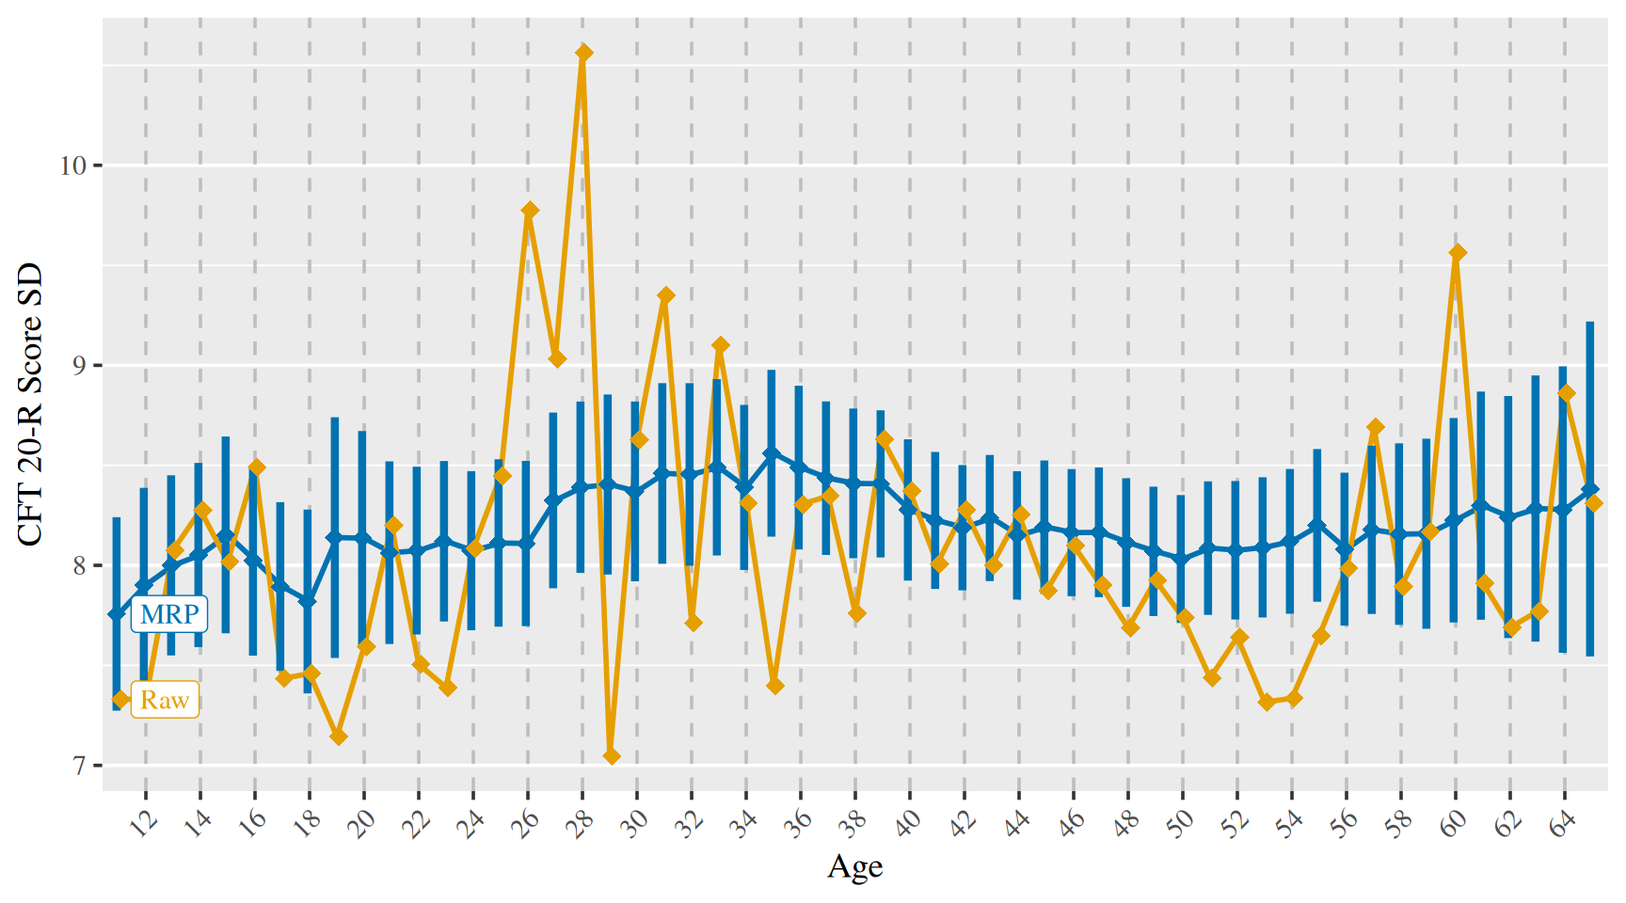
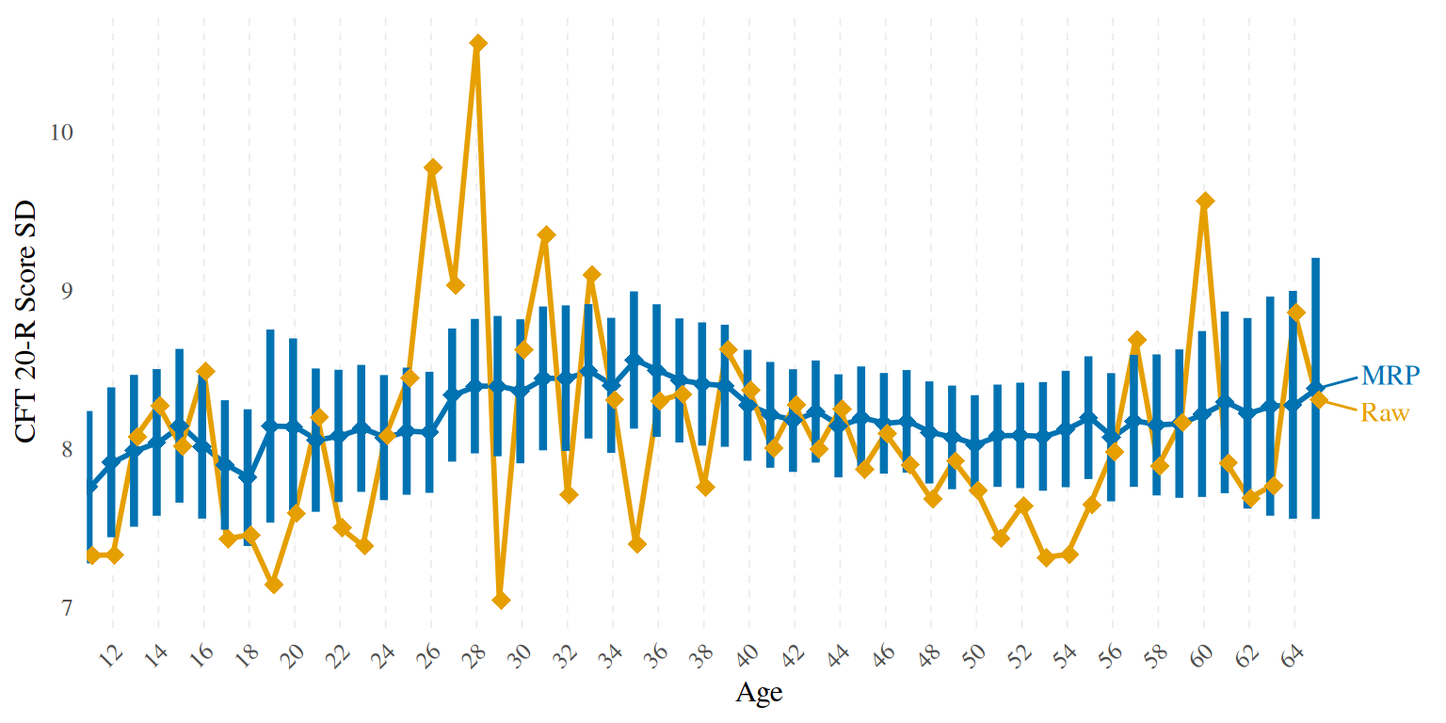
Fix error in document 03 and prevent site from uploading redundant data files

Changed region(s): [[0.0, 0.0312, 1.0, 0.8438], [0.0625, 0.875, 0.9688, 1.0], [0.0312, 0.1562, 0.0625, 0.1875]]

diff --git a/docs/03_norm_comparisons.html b/docs/03_norm_comparisons.html
@@ -10,7 +10,7 @@
 
 
 
-<meta name="date" content="2023-12-02" />
+<meta name="date" content="2023-12-03" />
 
 <title>MRP vs. Traditional Norming</title>
 
@@ -364,7 +364,7 @@ div.tocify {
 
 
 <h1 class="title toc-ignore">MRP vs. Traditional Norming</h1>
-<h4 class="date">2023-12-02</h4>
+<h4 class="date">2023-12-03</h4>
 
 </div>
 
@@ -379,6 +379,7 @@ div.tocify {
 )</code></pre>
 <p>Load dependencies and preprocessed datasets</p>
 <pre class="r"><code>library(tidyverse)
+library(ggrepel)
 
 load(&quot;../unshareable_data/preprocessed/tl.Rda&quot;)
 load(&quot;../unshareable_data/preprocessed/manual_norms.Rda&quot;)
@@ -432,8 +433,8 @@ means_ns_sds_and_ses %&gt;%
   mutate(age = as.integer(age)) %&gt;% 
   DT::datatable() %&gt;% 
   DT::formatRound(columns = names(means_ns_sds_and_ses)[-c(1, 2, 7)], digits = 2)</code></pre>
-<div class="datatables html-widget html-fill-item" id="htmlwidget-f143d6070531542c68ae" style="width:100%;height:auto;"></div>
-<script type="application/json" data-for="htmlwidget-f143d6070531542c68ae">{"x":{"filter":"none","vertical":false,"data":[["1","2","3","4","5","6","7","8","9","10","11","12","13","14","15","16","17","18","19","20","21","22","23","24","25","26","27","28","29","30","31","32","33","34","35","36","37","38","39","40","41","42","43","44","45","46","47","48","49","50","51","52","53","54","55"],[11,12,13,14,15,16,17,18,19,20,21,22,23,24,25,26,27,28,29,30,31,32,33,34,35,36,37,38,39,40,41,42,43,44,45,46,47,48,49,50,51,52,53,54,55,56,57,58,59,60,61,62,63,64,65],[31.41933539823009,32.24655989110708,33.32109638554217,34.64127640984908,35.59377472984206,36.79180338983051,38.19543727915195,39.0617756686799,38.19902534750613,38.76007715133531,38.85173550724637,38.41969236311239,38.29467464114833,38.02224584487534,37.96273068267067,37.85329496402878,37.58740270848183,37.50988504983389,37.42797503467406,37.38282018479033,37.06883439490446,37.4475076923077,37.09191606886657,37.10331096681097,36.82089683734939,36.91415201900237,36.77070449521002,36.78502578397212,36.53369576379974,37.00188549618321,36.90055977337111,36.9484368174727,36.66468642350557,36.75412098009188,36.73961900049481,36.4389477250726,36.24376216216216,36.13772303060713,35.78314526524542,35.60530874178878,35.2652813174946,35.03552200220022,34.77995720069404,34.31684800469483,33.81975841346154,33.6946588607595,33.04420036101083,32.63930588235294,32.07054700315457,31.94286714659686,31.18580494505494,30.65671521268926,30.31236647955092,29.83173781902552,29.20127586206896],[0.339153310398251,0.3061618209629887,0.3078633350303817,0.3055669830902937,0.3390421565080756,0.3336283856256183,0.3188367944828533,0.3461546468904904,0.8716304300784258,0.5053126848335462,0.3755026188449256,0.3261790654988607,0.2937888023868133,0.2890040636301034,0.2907980404659297,0.2883729173988953,0.2910732146862993,0.3038334098260252,0.2963906547973039,0.3191096276496148,0.3098561531308892,0.2910106914799648,0.2930504645935921,0.2902209377679933,0.2792596597520211,0.2795645142780048,0.2650824227454863,0.2653041013623231,0.2532970721501843,0.239888792119017,0.2336425648829067,0.2279591310975317,0.2274706029223723,0.2304307459583018,0.225476310543732,0.2339454840427181,0.2208976265628471,0.2292422364233698,0.2285928475705538,0.2343638111323304,0.2333928345489918,0.2366422946103777,0.2465770823264749,0.2558637148121597,0.2726879688452084,0.2947641208833013,0.3165220665577687,0.3372502036060847,0.372030032027556,0.400384813119586,0.4565720168456703,0.5007927578750195,0.5715728002961893,0.6206786116371956,0.7203504077886825],[7.760001524094577,7.916828425200666,7.989205055936736,8.04218126579881,8.147276481834234,8.015319933859599,7.900017621702085,7.820289527133149,8.14531118628798,8.141382815843043,8.056733065709043,8.083387008069884,8.130854331271964,8.072673088214097,8.112996378550308,8.106072552128737,8.341149126534466,8.39737690920537,8.397536905619914,8.36492768994399,8.446252932916801,8.44754308276789,8.490731261842866,8.401980189115898,8.562013409760381,8.495367672624461,8.433476562947428,8.410835963703452,8.399688293006081,8.276585517081333,8.21633432284921,8.180149755170644,8.236888877696916,8.146889501025042,8.196045161040368,8.16284564142487,8.175272818969807,8.105046524687365,8.073812824130593,8.029074265644388,8.08430766672312,8.08672208500006,8.080120757486362,8.126574900121183,8.198284084571911,8.075085339035009,8.178450819280553,8.152609390232584,8.160921911251497,8.22134338325721,8.294995488478817,8.225899652464246,8.271131788279105,8.279453085479393,8.383153141472853],[0.2451393232652967,0.2412730582442069,0.2444349347453397,0.2360766215918501,0.2475154855644798,0.2314564843008468,0.2083445662923197,0.2199864449017918,0.3105971386330947,0.2841803443018496,0.230704849386771,0.2128759301726082,0.2043701004319006,0.2012854574764043,0.2045053776706182,0.194838418752444,0.2141909035722671,0.2164304825388623,0.2258041044684931,0.2318557909728574,0.2314505779776289,0.2342532045083403,0.2162915322156641,0.2174313874666326,0.2208266077284186,0.2135229952783785,0.1996857412573016,0.1982461411119428,0.1964356681862101,0.1783895143888073,0.170276411618984,0.1653217058503083,0.1643245285492285,0.1657803354460953,0.1659617577257523,0.1620552305832745,0.165209278923767,0.1643918034946706,0.166795345742865,0.1586471752652176,0.1645677783468691,0.1697065432772101,0.1747755755971221,0.1872430154774536,0.1976067513433616,0.2063389674793608,0.2124618147609756,0.2270246227179788,0.2388714449599543,0.266954282498022,0.2924670132118746,0.3066568514171068,0.3526067961059787,0.3666669113350436,0.4202999666707815],[908,110,141,130,89,122,965,120,86,72,61,285,458,257,70,48,34,26,29,25,59,73,93,128,143,157,169,190,195,203,228,224,237,300,337,298,300,309,315,322,292,263,238,207,169,118,113,79,66,53,32,34,18,17,13],[32.25770925110132,34.32727272727273,36.30496453900709,37.14615384615384,36.70786516853933,37.31967213114754,40.07668393782384,40.46666666666667,41.55813953488372,41.22222222222222,39,40.12631578947369,40.08951965065502,39.94552529182879,39.22857142857143,38.375,36.58823529411764,34.84615384615385,37.3448275862069,32.24,36.16949152542373,37.43835616438356,38.04301075268818,36.75,38.56643356643357,37.10828025477707,37.16568047337278,37.46315789473685,37.91282051282051,38.08866995073892,38.19298245614035,38.23660714285715,37.45147679324894,37.81333333333333,38.40356083086053,38.07382550335571,38.22333333333334,37.78640776699029,37.84761904761905,37.24223602484472,36.53082191780822,37.30798479087453,36.52941176470588,37.15458937198068,35.52662721893491,35.41525423728814,35.17699115044248,35.58227848101266,34.25757575757576,33.9622641509434,34.71875,31.67647058823529,29.38888888888889,30.58823529411765,31.07692307692308],[7.32981827752394,7.332357707993041,8.076370527135978,8.275406300207393,8.017314001571581,8.490409167142531,7.434801352423686,7.458493926568625,7.144894765063399,7.593960206104163,8.199593485858511,7.505268720165701,7.389644669836307,8.083847067726905,8.447916180022094,9.775403349135926,9.032324601149737,10.56292500282874,7.047166918439968,8.627861844049196,9.349815676539926,7.711798863087549,9.100781116134822,8.311835788394061,7.398667029316588,8.303983920179206,8.346428144916086,7.76072124275454,8.629701153788627,8.370860567352258,8.007570419129138,8.277816218767944,8.000183256143226,8.252606088162503,7.873084749526269,8.099211384257696,7.900729543103374,7.687040644626986,7.926149118860502,7.738946612626985,7.437418769140218,7.640803790482602,7.316040442328423,7.335593880067554,7.648579924806923,7.984307548487098,8.691364853050962,7.894508956549725,8.168062770158505,9.563476725685518,7.91174861386737,7.689901241574519,7.769767116571232,8.860437514094688,8.311252798280359],[0.2432485630292096,0.6991128765537922,0.6801530954672579,0.7258011458620808,0.8498335845011183,0.7686855281534873,0.2393347237656941,0.680864228099486,0.7704538167635159,0.8949567929661744,1.049850366647422,0.4445737503670572,0.3452954192001563,0.5042565256253859,1.009719110762133,1.410957938765199,1.549030889645055,2.071560027309265,1.308626044109843,1.725572368809839,1.217242320800168,0.9025977858815822,0.9437070401746656,0.7346694312603093,0.6187076187968894,0.6627300655525055,0.6420329342243143,0.5630218945342673,0.6179857354743291,0.5875192340968579,0.5303143060806719,0.5530848607376824,0.5196677457349802,0.4764644346516565,0.428874254337216,0.4691747182710613,0.4561488328505162,0.437300463502061,0.446587910094509,0.4312746335500847,0.4352420124591023,0.4711521456517989,0.4742284656375508,0.5098590198876498,0.5883523019082249,0.7350150870631209,0.8176148292000777,0.8882016510766225,1.005419024791589,1.313644556350325,1.398612773977221,1.318807182815652,1.831351672122589,2.148971750576327,2.3051267790418]],"container":"<table class=\"display\">\n  <thead>\n    <tr>\n      <th> <\/th>\n      <th>age<\/th>\n      <th>MRP_mean<\/th>\n      <th>MRP_se_of_mean<\/th>\n      <th>MRP_sd<\/th>\n      <th>MRP_se_of_sd<\/th>\n      <th>Raw_n<\/th>\n      <th>Raw_mean<\/th>\n      <th>Raw_sd<\/th>\n      <th>Raw_se_of_mean<\/th>\n    <\/tr>\n  <\/thead>\n<\/table>","options":{"columnDefs":[{"targets":3,"render":"function(data, type, row, meta) {\n    return type !== 'display' ? data : DTWidget.formatRound(data, 2, 3, \",\", \".\", null);\n  }"},{"targets":4,"render":"function(data, type, row, meta) {\n    return type !== 'display' ? data : DTWidget.formatRound(data, 2, 3, \",\", \".\", null);\n  }"},{"targets":5,"render":"function(data, type, row, meta) {\n    return type !== 'display' ? data : DTWidget.formatRound(data, 2, 3, \",\", \".\", null);\n  }"},{"targets":6,"render":"function(data, type, row, meta) {\n    return type !== 'display' ? data : DTWidget.formatRound(data, 2, 3, \",\", \".\", null);\n  }"},{"targets":8,"render":"function(data, type, row, meta) {\n    return type !== 'display' ? data : DTWidget.formatRound(data, 2, 3, \",\", \".\", null);\n  }"},{"targets":9,"render":"function(data, type, row, meta) {\n    return type !== 'display' ? data : DTWidget.formatRound(data, 2, 3, \",\", \".\", null);\n  }"},{"className":"dt-right","targets":[1,2,3,4,5,6,7,8,9]},{"orderable":false,"targets":0}],"order":[],"autoWidth":false,"orderClasses":false}},"evals":["options.columnDefs.0.render","options.columnDefs.1.render","options.columnDefs.2.render","options.columnDefs.3.render","options.columnDefs.4.render","options.columnDefs.5.render"],"jsHooks":[]}</script>
+<div class="datatables html-widget html-fill-item" id="htmlwidget-8c1bc302485bf53f68b2" style="width:100%;height:auto;"></div>
+<script type="application/json" data-for="htmlwidget-8c1bc302485bf53f68b2">{"x":{"filter":"none","vertical":false,"data":[["1","2","3","4","5","6","7","8","9","10","11","12","13","14","15","16","17","18","19","20","21","22","23","24","25","26","27","28","29","30","31","32","33","34","35","36","37","38","39","40","41","42","43","44","45","46","47","48","49","50","51","52","53","54","55"],[11,12,13,14,15,16,17,18,19,20,21,22,23,24,25,26,27,28,29,30,31,32,33,34,35,36,37,38,39,40,41,42,43,44,45,46,47,48,49,50,51,52,53,54,55,56,57,58,59,60,61,62,63,64,65],[31.41933539823009,32.24655989110708,33.32109638554217,34.64127640984908,35.59377472984206,36.79180338983051,38.19543727915195,39.0617756686799,38.19902534750613,38.76007715133531,38.85173550724637,38.41969236311239,38.29467464114833,38.02224584487534,37.96273068267067,37.85329496402878,37.58740270848183,37.50988504983389,37.42797503467406,37.38282018479033,37.06883439490446,37.4475076923077,37.09191606886657,37.10331096681097,36.82089683734939,36.91415201900237,36.77070449521002,36.78502578397212,36.53369576379974,37.00188549618321,36.90055977337111,36.9484368174727,36.66468642350557,36.75412098009188,36.73961900049481,36.4389477250726,36.24376216216216,36.13772303060713,35.78314526524542,35.60530874178878,35.2652813174946,35.03552200220022,34.77995720069404,34.31684800469483,33.81975841346154,33.6946588607595,33.04420036101083,32.63930588235294,32.07054700315457,31.94286714659686,31.18580494505494,30.65671521268926,30.31236647955092,29.83173781902552,29.20127586206896],[0.339153310398251,0.3061618209629887,0.3078633350303817,0.3055669830902937,0.3390421565080756,0.3336283856256183,0.3188367944828533,0.3461546468904904,0.8716304300784258,0.5053126848335462,0.3755026188449256,0.3261790654988607,0.2937888023868133,0.2890040636301034,0.2907980404659297,0.2883729173988953,0.2910732146862993,0.3038334098260252,0.2963906547973039,0.3191096276496148,0.3098561531308892,0.2910106914799648,0.2930504645935921,0.2902209377679933,0.2792596597520211,0.2795645142780048,0.2650824227454863,0.2653041013623231,0.2532970721501843,0.239888792119017,0.2336425648829067,0.2279591310975317,0.2274706029223723,0.2304307459583018,0.225476310543732,0.2339454840427181,0.2208976265628471,0.2292422364233698,0.2285928475705538,0.2343638111323304,0.2333928345489918,0.2366422946103777,0.2465770823264749,0.2558637148121597,0.2726879688452084,0.2947641208833013,0.3165220665577687,0.3372502036060847,0.372030032027556,0.400384813119586,0.4565720168456703,0.5007927578750195,0.5715728002961893,0.6206786116371956,0.7203504077886825],[7.760001524094577,7.916828425200666,7.989205055936736,8.04218126579881,8.147276481834234,8.015319933859599,7.900017621702085,7.820289527133149,8.14531118628798,8.141382815843043,8.056733065709043,8.083387008069884,8.130854331271964,8.072673088214097,8.112996378550308,8.106072552128737,8.341149126534466,8.39737690920537,8.397536905619914,8.36492768994399,8.446252932916801,8.44754308276789,8.490731261842866,8.401980189115898,8.562013409760381,8.495367672624461,8.433476562947428,8.410835963703452,8.399688293006081,8.276585517081333,8.21633432284921,8.180149755170644,8.236888877696916,8.146889501025042,8.196045161040368,8.16284564142487,8.175272818969807,8.105046524687365,8.073812824130593,8.029074265644388,8.08430766672312,8.08672208500006,8.080120757486362,8.126574900121183,8.198284084571911,8.075085339035009,8.178450819280553,8.152609390232584,8.160921911251497,8.22134338325721,8.294995488478817,8.225899652464246,8.271131788279105,8.279453085479393,8.383153141472853],[0.2451393232652967,0.2412730582442069,0.2444349347453397,0.2360766215918501,0.2475154855644798,0.2314564843008468,0.2083445662923197,0.2199864449017918,0.3105971386330947,0.2841803443018496,0.230704849386771,0.2128759301726082,0.2043701004319006,0.2012854574764043,0.2045053776706182,0.194838418752444,0.2141909035722671,0.2164304825388623,0.2258041044684931,0.2318557909728574,0.2314505779776289,0.2342532045083403,0.2162915322156641,0.2174313874666326,0.2208266077284186,0.2135229952783785,0.1996857412573016,0.1982461411119428,0.1964356681862101,0.1783895143888073,0.170276411618984,0.1653217058503083,0.1643245285492285,0.1657803354460953,0.1659617577257523,0.1620552305832745,0.165209278923767,0.1643918034946706,0.166795345742865,0.1586471752652176,0.1645677783468691,0.1697065432772101,0.1747755755971221,0.1872430154774536,0.1976067513433616,0.2063389674793608,0.2124618147609756,0.2270246227179788,0.2388714449599543,0.266954282498022,0.2924670132118746,0.3066568514171068,0.3526067961059787,0.3666669113350436,0.4202999666707815],[908,110,141,130,89,122,965,120,86,72,61,285,458,257,70,48,34,26,29,25,59,73,93,128,143,157,169,190,195,203,228,224,237,300,337,298,300,309,315,322,292,263,238,207,169,118,113,79,66,53,32,34,18,17,13],[32.25770925110132,34.32727272727273,36.30496453900709,37.14615384615384,36.70786516853933,37.31967213114754,40.07668393782384,40.46666666666667,41.55813953488372,41.22222222222222,39,40.12631578947369,40.08951965065502,39.94552529182879,39.22857142857143,38.375,36.58823529411764,34.84615384615385,37.3448275862069,32.24,36.16949152542373,37.43835616438356,38.04301075268818,36.75,38.56643356643357,37.10828025477707,37.16568047337278,37.46315789473685,37.91282051282051,38.08866995073892,38.19298245614035,38.23660714285715,37.45147679324894,37.81333333333333,38.40356083086053,38.07382550335571,38.22333333333334,37.78640776699029,37.84761904761905,37.24223602484472,36.53082191780822,37.30798479087453,36.52941176470588,37.15458937198068,35.52662721893491,35.41525423728814,35.17699115044248,35.58227848101266,34.25757575757576,33.9622641509434,34.71875,31.67647058823529,29.38888888888889,30.58823529411765,31.07692307692308],[7.32981827752394,7.332357707993041,8.076370527135978,8.275406300207393,8.017314001571581,8.490409167142531,7.434801352423686,7.458493926568625,7.144894765063399,7.593960206104163,8.199593485858511,7.505268720165701,7.389644669836307,8.083847067726905,8.447916180022094,9.775403349135926,9.032324601149737,10.56292500282874,7.047166918439968,8.627861844049196,9.349815676539926,7.711798863087549,9.100781116134822,8.311835788394061,7.398667029316588,8.303983920179206,8.346428144916086,7.76072124275454,8.629701153788627,8.370860567352258,8.007570419129138,8.277816218767944,8.000183256143226,8.252606088162503,7.873084749526269,8.099211384257696,7.900729543103374,7.687040644626986,7.926149118860502,7.738946612626985,7.437418769140218,7.640803790482602,7.316040442328423,7.335593880067554,7.648579924806923,7.984307548487098,8.691364853050962,7.894508956549725,8.168062770158505,9.563476725685518,7.91174861386737,7.689901241574519,7.769767116571232,8.860437514094688,8.311252798280359],[0.2432485630292096,0.6991128765537922,0.6801530954672579,0.7258011458620808,0.8498335845011183,0.7686855281534873,0.2393347237656941,0.680864228099486,0.7704538167635159,0.8949567929661744,1.049850366647422,0.4445737503670572,0.3452954192001563,0.5042565256253859,1.009719110762133,1.410957938765199,1.549030889645055,2.071560027309265,1.308626044109843,1.725572368809839,1.217242320800168,0.9025977858815822,0.9437070401746656,0.7346694312603093,0.6187076187968894,0.6627300655525055,0.6420329342243143,0.5630218945342673,0.6179857354743291,0.5875192340968579,0.5303143060806719,0.5530848607376824,0.5196677457349802,0.4764644346516565,0.428874254337216,0.4691747182710613,0.4561488328505162,0.437300463502061,0.446587910094509,0.4312746335500847,0.4352420124591023,0.4711521456517989,0.4742284656375508,0.5098590198876498,0.5883523019082249,0.7350150870631209,0.8176148292000777,0.8882016510766225,1.005419024791589,1.313644556350325,1.398612773977221,1.318807182815652,1.831351672122589,2.148971750576327,2.3051267790418]],"container":"<table class=\"display\">\n  <thead>\n    <tr>\n      <th> <\/th>\n      <th>age<\/th>\n      <th>MRP_mean<\/th>\n      <th>MRP_se_of_mean<\/th>\n      <th>MRP_sd<\/th>\n      <th>MRP_se_of_sd<\/th>\n      <th>Raw_n<\/th>\n      <th>Raw_mean<\/th>\n      <th>Raw_sd<\/th>\n      <th>Raw_se_of_mean<\/th>\n    <\/tr>\n  <\/thead>\n<\/table>","options":{"columnDefs":[{"targets":3,"render":"function(data, type, row, meta) {\n    return type !== 'display' ? data : DTWidget.formatRound(data, 2, 3, \",\", \".\", null);\n  }"},{"targets":4,"render":"function(data, type, row, meta) {\n    return type !== 'display' ? data : DTWidget.formatRound(data, 2, 3, \",\", \".\", null);\n  }"},{"targets":5,"render":"function(data, type, row, meta) {\n    return type !== 'display' ? data : DTWidget.formatRound(data, 2, 3, \",\", \".\", null);\n  }"},{"targets":6,"render":"function(data, type, row, meta) {\n    return type !== 'display' ? data : DTWidget.formatRound(data, 2, 3, \",\", \".\", null);\n  }"},{"targets":8,"render":"function(data, type, row, meta) {\n    return type !== 'display' ? data : DTWidget.formatRound(data, 2, 3, \",\", \".\", null);\n  }"},{"targets":9,"render":"function(data, type, row, meta) {\n    return type !== 'display' ? data : DTWidget.formatRound(data, 2, 3, \",\", \".\", null);\n  }"},{"className":"dt-right","targets":[1,2,3,4,5,6,7,8,9]},{"orderable":false,"targets":0}],"order":[],"autoWidth":false,"orderClasses":false}},"evals":["options.columnDefs.0.render","options.columnDefs.1.render","options.columnDefs.2.render","options.columnDefs.3.render","options.columnDefs.4.render","options.columnDefs.5.render"],"jsHooks":[]}</script>
 </div>
 <div id="plot-means" class="section level2" number="1.2">
 <h2><span class="header-section-number">1.2</span> Plot means</h2>
@@ -462,7 +463,7 @@ means_ns_sds_and_ses_plot  %&gt;%
   ) +
   scale_colour_manual(values = c(&quot;#0072b2&quot;, &quot;#e69f00&quot;)) +
   labs(x = &quot;Age&quot;, y = &quot;Mean CFT 20-R Score&quot;)</code></pre>
-<pre><code>## Error in geom_text_repel(data = means_ns_sds_and_ses_plot %&gt;% filter(age == : could not find function &quot;geom_text_repel&quot;</code></pre>
+<p><img src="03_norm_comparisons_files/figure-html/unnamed-chunk-3-1.png" width="768" /></p>
 </div>
 <div id="overall-mean-differences" class="section level2" number="1.3">
 <h2><span class="header-section-number">1.3</span> Overall mean
@@ -514,7 +515,7 @@ corrected means.</p>
   ) +
   scale_colour_manual(values = c(&quot;#0072b2&quot;, &quot;#e69f00&quot;)) +
   labs(x = &quot;Age&quot;, y = &quot;CFT 20-R Score SD&quot;)</code></pre>
-<pre><code>## Error in geom_text_repel(data = means_ns_sds_and_ses_plot %&gt;% filter(age == : could not find function &quot;geom_text_repel&quot;</code></pre>
+<p><img src="03_norm_comparisons_files/figure-html/unnamed-chunk-5-1.png" width="768" /></p>
 </div>
 </div>
 <div id="mrp-norms-vs.-manual-norms-vs.-raw-estimates"
@@ -606,7 +607,7 @@ means_sds_and_ses_plot %&gt;%
     legend.position = &quot;none&quot;
   )  + 
   geom_vline(xintercept = 7.5)</code></pre>
-<pre><code>## Error in geom_text_repel(data = means_sds_and_ses_plot %&gt;% filter(age_group == : could not find function &quot;geom_text_repel&quot;</code></pre>
+<p><img src="03_norm_comparisons_files/figure-html/unnamed-chunk-6-1.png" width="768" /></p>
 </div>
 <div id="sds" class="section level2" number="2.2">
 <h2><span class="header-section-number">2.2</span> SDs</h2>
@@ -642,7 +643,7 @@ means_sds_and_ses_plot %&gt;%
   ) + 
   geom_vline(xintercept = 7.5) + 
   labs(x = &quot;Age Group&quot;, y = &quot;CFT 20-R Score SD&quot;) </code></pre>
-<pre><code>## Error in geom_text_repel(data = means_sds_and_ses_plot %&gt;% filter(age_group == : could not find function &quot;geom_text_repel&quot;</code></pre>
+<p><img src="03_norm_comparisons_files/figure-html/unnamed-chunk-7-1.png" width="768" /></p>
 </div>
 <div id="iq-calculations" class="section level2" number="2.3">
 <h2><span class="header-section-number">2.3</span> IQ calculations</h2>
@@ -751,32 +752,33 @@ mean(iq_table$IQ_linear_dif_abs)</code></pre>
 ## [1] stats     graphics  grDevices datasets  utils     methods   base     
 ## 
 ## other attached packages:
-## [1] forcats_1.0.0   stringr_1.5.1   dplyr_1.1.4     purrr_1.0.2    
-## [5] readr_2.1.4     tidyr_1.3.0     tibble_3.2.1    ggplot2_3.4.4  
-## [9] tidyverse_1.3.2
+##  [1] ggrepel_0.9.4   forcats_1.0.0   stringr_1.5.1   dplyr_1.1.4    
+##  [5] purrr_1.0.2     readr_2.1.4     tidyr_1.3.0     tibble_3.2.1   
+##  [9] ggplot2_3.4.4   tidyverse_1.3.2
 ## 
 ## loaded via a namespace (and not attached):
-##  [1] tidyselect_1.2.0    xfun_0.41           bslib_0.6.0        
-##  [4] haven_2.5.3         gargle_1.5.2        colorspace_2.1-0   
-##  [7] vctrs_0.6.4         generics_0.1.3      htmltools_0.5.7    
-## [10] yaml_2.3.7          utf8_1.2.4          rlang_1.1.2        
-## [13] jquerylib_0.1.4     pillar_1.9.0        withr_2.5.2        
-## [16] glue_1.6.2          DBI_1.1.3           dbplyr_2.4.0       
-## [19] modelr_0.1.11       readxl_1.4.3        lifecycle_1.0.4    
-## [22] munsell_0.5.0       gtable_0.3.4        cellranger_1.1.0   
-## [25] rvest_1.0.3         htmlwidgets_1.6.3   evaluate_0.23      
-## [28] knitr_1.45          tzdb_0.4.0          fastmap_1.1.1      
-## [31] crosstalk_1.2.1     fansi_1.0.5         broom_1.0.5        
-## [34] DT_0.30             renv_1.0.3          backports_1.4.1    
-## [37] scales_1.2.1        googlesheets4_1.1.1 cachem_1.0.8       
-## [40] jsonlite_1.8.7      fs_1.6.3            hms_1.1.3          
-## [43] digest_0.6.33       stringi_1.8.2       grid_4.2.2         
-## [46] cli_3.6.1           tools_4.2.2         magrittr_2.0.3     
-## [49] sass_0.4.7          crayon_1.5.2        pkgconfig_2.0.3    
-## [52] ellipsis_0.3.2      xml2_1.3.5          reprex_2.0.2       
-## [55] googledrive_2.1.1   lubridate_1.9.3     timechange_0.2.0   
-## [58] rmarkdown_2.25      httr_1.4.7          rstudioapi_0.15.0  
-## [61] R6_2.5.1            compiler_4.2.2</code></pre>
+##  [1] Rcpp_1.0.11         lubridate_1.9.3     digest_0.6.33      
+##  [4] utf8_1.2.4          R6_2.5.1            cellranger_1.1.0   
+##  [7] backports_1.4.1     reprex_2.0.2        evaluate_0.23      
+## [10] highr_0.10          httr_1.4.7          pillar_1.9.0       
+## [13] rlang_1.1.2         googlesheets4_1.1.1 readxl_1.4.3       
+## [16] rstudioapi_0.15.0   jquerylib_0.1.4     DT_0.30            
+## [19] rmarkdown_2.25      labeling_0.4.3      googledrive_2.1.1  
+## [22] htmlwidgets_1.6.3   munsell_0.5.0       broom_1.0.5        
+## [25] compiler_4.2.2      modelr_0.1.11       xfun_0.41          
+## [28] pkgconfig_2.0.3     htmltools_0.5.7     tidyselect_1.2.0   
+## [31] fansi_1.0.5         crayon_1.5.2        tzdb_0.4.0         
+## [34] dbplyr_2.4.0        withr_2.5.2         grid_4.2.2         
+## [37] jsonlite_1.8.7      gtable_0.3.4        lifecycle_1.0.4    
+## [40] DBI_1.1.3           magrittr_2.0.3      scales_1.2.1       
+## [43] cli_3.6.1           stringi_1.8.2       cachem_1.0.8       
+## [46] farver_2.1.1        renv_1.0.3          fs_1.6.3           
+## [49] xml2_1.3.5          bslib_0.6.0         ellipsis_0.3.2     
+## [52] generics_0.1.3      vctrs_0.6.4         tools_4.2.2        
+## [55] glue_1.6.2          hms_1.1.3           crosstalk_1.2.1    
+## [58] fastmap_1.1.1       yaml_2.3.7          timechange_0.2.0   
+## [61] colorspace_2.1-0    gargle_1.5.2        rvest_1.0.3        
+## [64] knitr_1.45          haven_2.5.3         sass_0.4.7</code></pre>
 </div>
 
 

diff --git a/docs/01_data_cleaning.html b/docs/01_data_cleaning.html
@@ -10,7 +10,7 @@
 
 
 
-<meta name="date" content="2023-12-02" />
+<meta name="date" content="2023-12-03" />
 
 <title>Data preprocessing code</title>
 
@@ -358,7 +358,7 @@ div.tocify {
 
 
 <h1 class="title toc-ignore">Data preprocessing code</h1>
-<h4 class="date">2023-12-02</h4>
+<h4 class="date">2023-12-03</h4>
 
 </div>
 
